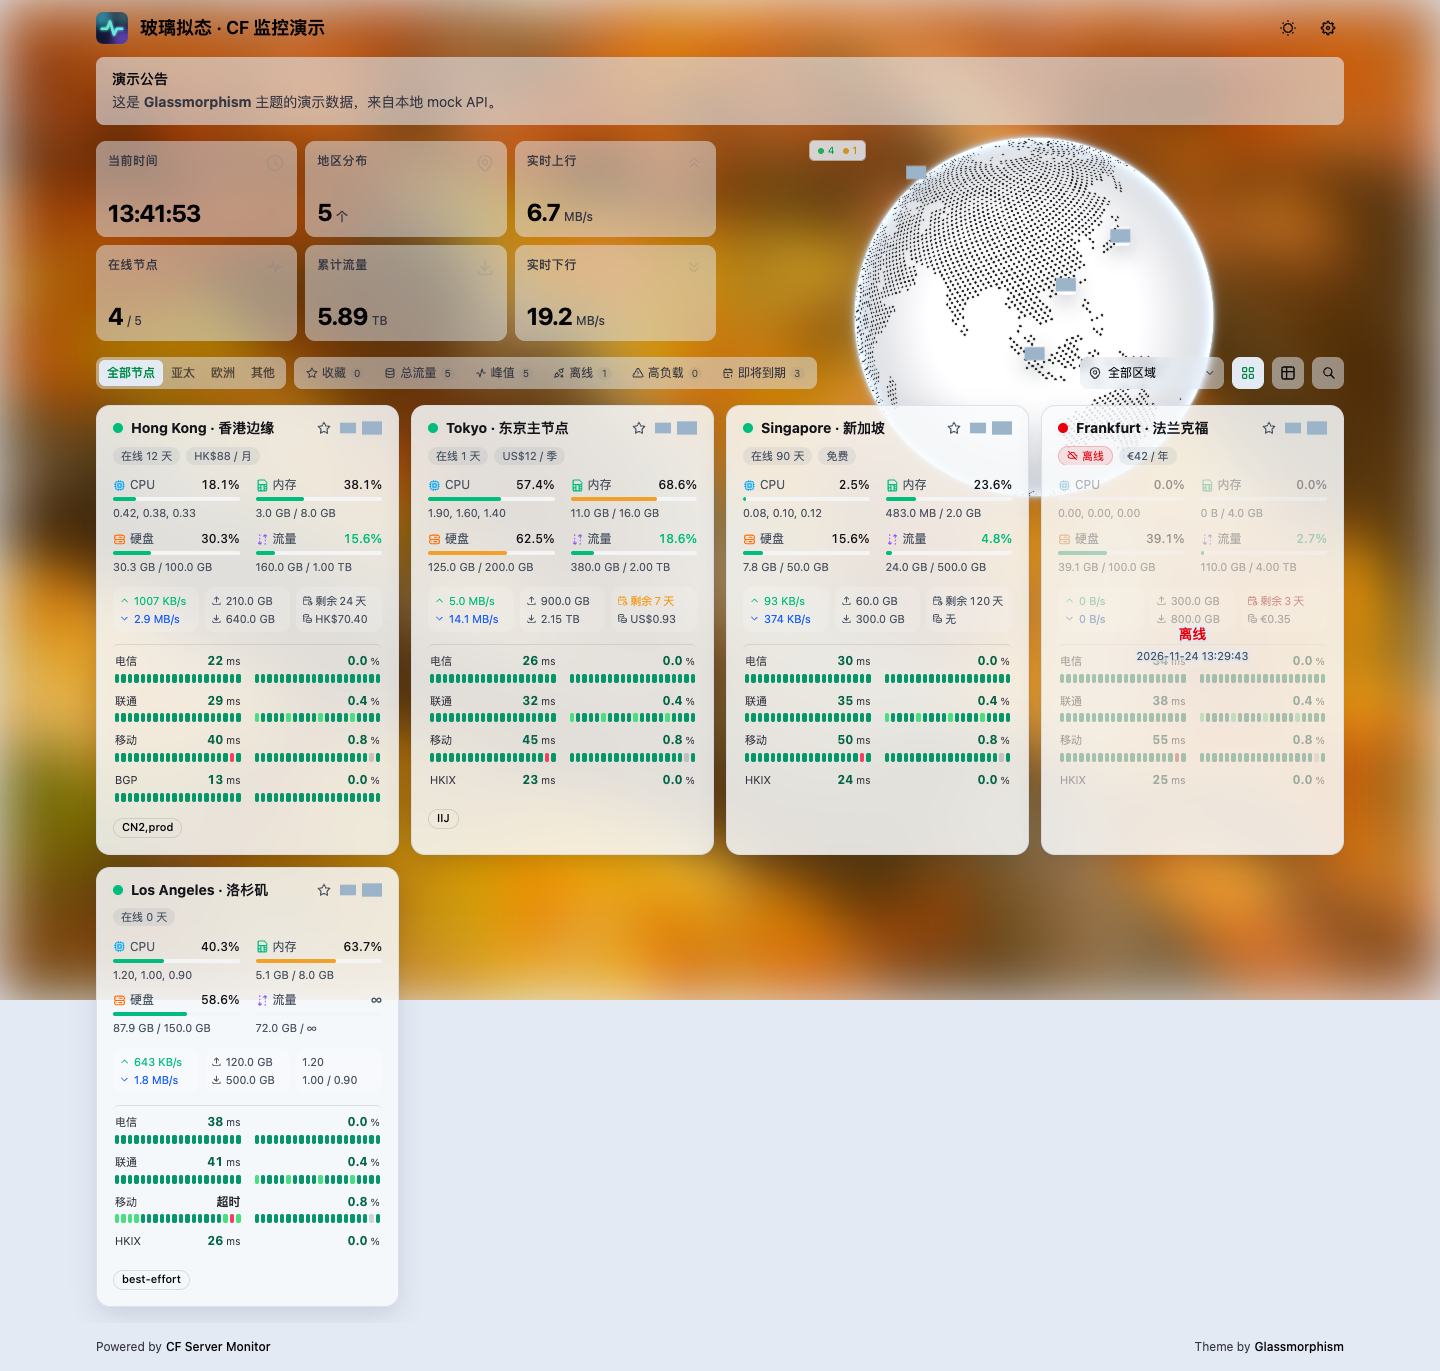
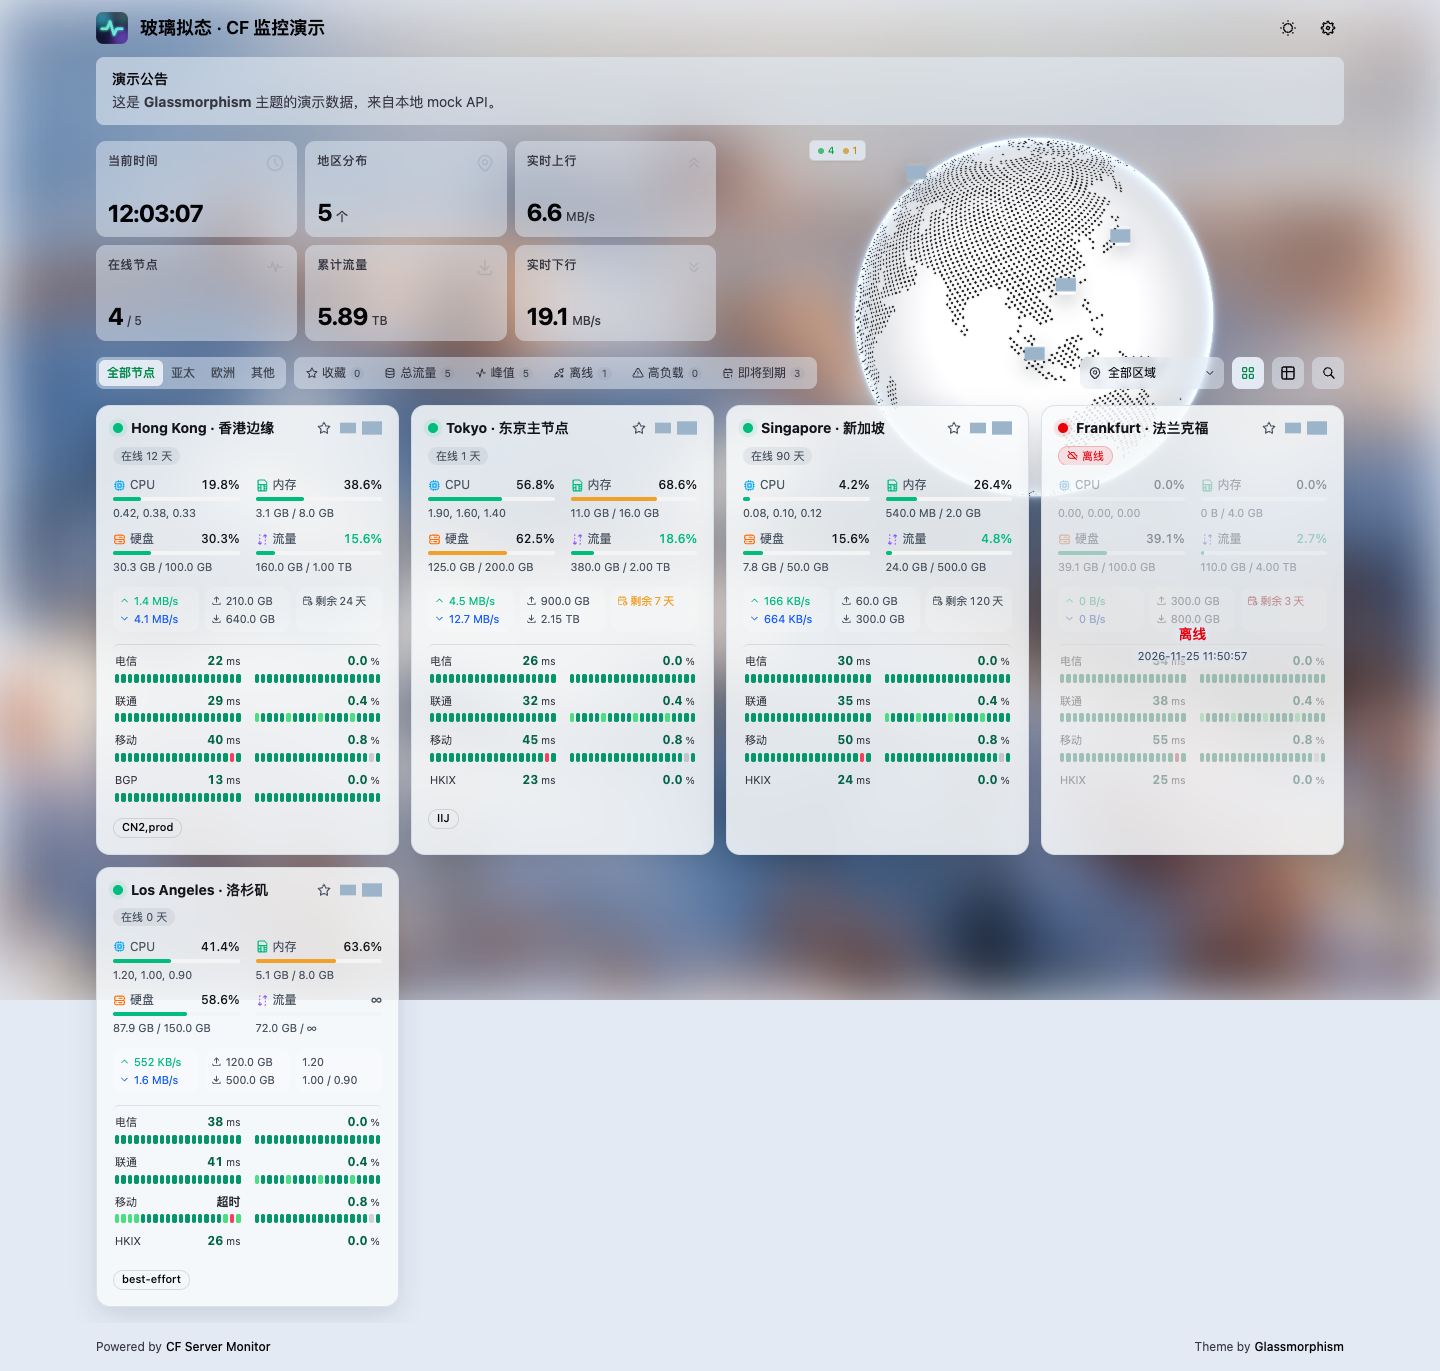
访客模式默认隐藏价格，新增访客可见价格开关

diff --git a/src/components/NodeGeneralCards.vue b/src/components/NodeGeneralCards.vue
@@ -64,7 +64,7 @@ const appStore = useAppStore()
 const nodesStore = useNodesStore()
 const FinanceDetailsDialog = defineAsyncComponent(() => import('@/components/FinanceDetailsDialog.vue'))
 // 未登录且开启「未登录隐藏价格」时，屏蔽金额类信息
-const showPrice = computed(() => appStore.privateFeaturesAllowed || !appStore.hidePriceWhenLoggedOut)
+const showPrice = computed(() => appStore.privateFeaturesAllowed || appStore.showPriceForGuests)
 const exchangeRates = ref(financeHelper.DEFAULT_EXCHANGE_RATES)
 const dailyExchangeRates = ref(financeHelper.DEFAULT_EXCHANGE_RATES)
 const exchangeRateSource = ref<ExchangeRateSource | 'loading'>('loading')
@@ -648,6 +648,7 @@ const EXPIRE_CARD_KEYS = new Set(['expiringNodes'])
 // 站点开关（show_price / show_tf / show_expire）优先于主题卡片方案
 const visibleCards = computed(() => appStore.generalCardOrder
   .filter(key => (appStore.showPrice || !PRICE_CARD_KEYS.has(key))
+    && (showPrice.value || !PRICE_CARD_KEYS.has(key))
     && (appStore.showTraffic || !TRAFFIC_CARD_KEYS.has(key))
     && (appStore.showExpire || !EXPIRE_CARD_KEYS.has(key)))
   .map(getCardDefinition))

diff --git a/src/stores/app.ts b/src/stores/app.ts
@@ -1112,7 +1112,8 @@ const useAppStore = defineStore('app', () => {
 
   const hideAdminEntryWhenLoggedOut = computed<boolean>(() => readBooleanSetting(themeSettings.value, 'hideAdminEntryWhenLoggedOut', false))
 
-  const hidePriceWhenLoggedOut = computed<boolean>(() => readBooleanSetting(themeSettings.value, 'hidePriceWhenLoggedOut', false))
+  /** 访客是否可见价格；默认关闭，避免公开页泄露价格 */
+  const showPriceForGuests = computed<boolean>(() => readBooleanSetting(themeSettings.value, 'showPriceForGuests', false))
 
   const providerAliases = computed<string>(() => readStringSetting(themeSettings.value, 'providerAliases'))
 
@@ -1307,7 +1308,7 @@ const useAppStore = defineStore('app', () => {
     diskPredictionThresholdDays,
     chartDashboardTemplate,
     hideAdminEntryWhenLoggedOut,
-    hidePriceWhenLoggedOut,
+    showPriceForGuests,
     providerAliases,
     probeLineNames,
     homepageMultiPingTaskIds,

diff --git a/src/views/InstanceDetail.vue b/src/views/InstanceDetail.vue
@@ -125,7 +125,7 @@ const ipSupport = computed(() => {
 })
 
 // 未登录且开启「未登录隐藏价格」时，屏蔽金额类指标（剩余时间为天数，仍显示）
-const showPrice = computed(() => appStore.showPrice && (appStore.privateFeaturesAllowed || !appStore.hidePriceWhenLoggedOut))
+const showPrice = computed(() => appStore.showPrice && (appStore.privateFeaturesAllowed || appStore.showPriceForGuests))
 
 const formatBytes = (bytes: number) => formatBytesWithConfig(bytes, appStore.byteDecimals)
 const formatBytesPerSecond = (bytes: number) => formatBytesPerSecondWithConfig(bytes, appStore.byteDecimals)

diff --git a/src/components/NodeCard.vue b/src/components/NodeCard.vue
@@ -152,7 +152,7 @@ const trafficPercentageClass = computed(() => {
 
 // 是否显示金额：未登录且开启「未登录隐藏价格」时不显示价格 / 剩余价值，
 // 但在线天数、剩余天数等非金额信息仍然展示
-const showPrice = computed(() => appStore.privateFeaturesAllowed || !appStore.hidePriceWhenLoggedOut)
+const showPrice = computed(() => appStore.privateFeaturesAllowed || appStore.showPriceForGuests)
 
 const uptimeDaysText = computed(() => {
   const days = getUptimeDays(props.node.uptime)

diff --git a/src/components/NodeList.vue b/src/components/NodeList.vue
@@ -59,7 +59,7 @@ function toggleFavorite(node: NodeData): void {
 }
 
 // 未登录且开启「未登录隐藏价格」时，隐藏价格信息
-const showPrice = computed(() => appStore.privateFeaturesAllowed || !appStore.hidePriceWhenLoggedOut)
+const showPrice = computed(() => appStore.privateFeaturesAllowed || appStore.showPriceForGuests)
 
 const baseColumns: ColumnConfig[] = [
   { key: 'status', label: '状态', width: '40px', sortable: false },

diff --git a/README.md b/README.md
@@ -123,6 +123,7 @@ npm run build:github-page
 - 外观：深浅色模式、界面语言（中文 / English / 跟随站点）、卡片尺寸、毛玻璃配色、色觉辅助、自定义背景、站点图标（可上传图片）。
 - 首页：公告、地球样式/城市、概览卡片方案、快捷筛选、分组与离线置顶、高负载/流量/到期阈值。
 - 卡片与详情：延迟显示样式、多线路数量、列表信息栏、详情卡片与图表方案。
+- 隐私：默认未登录访客看不到价格、剩余价值与费用卡片；站长可在「访客可见价格」中显式开启。
 - 资产管理：入口开关、访客可见、汇总币种、临期提醒、汇率接口、忽略节点、收购溢价、收购日到期日期。
 - 站点级开关 `show_price` / `show_expire` / `show_tf` 来自 `/api/servers` 的 `sysConfig`，优先于主题设置。
 
